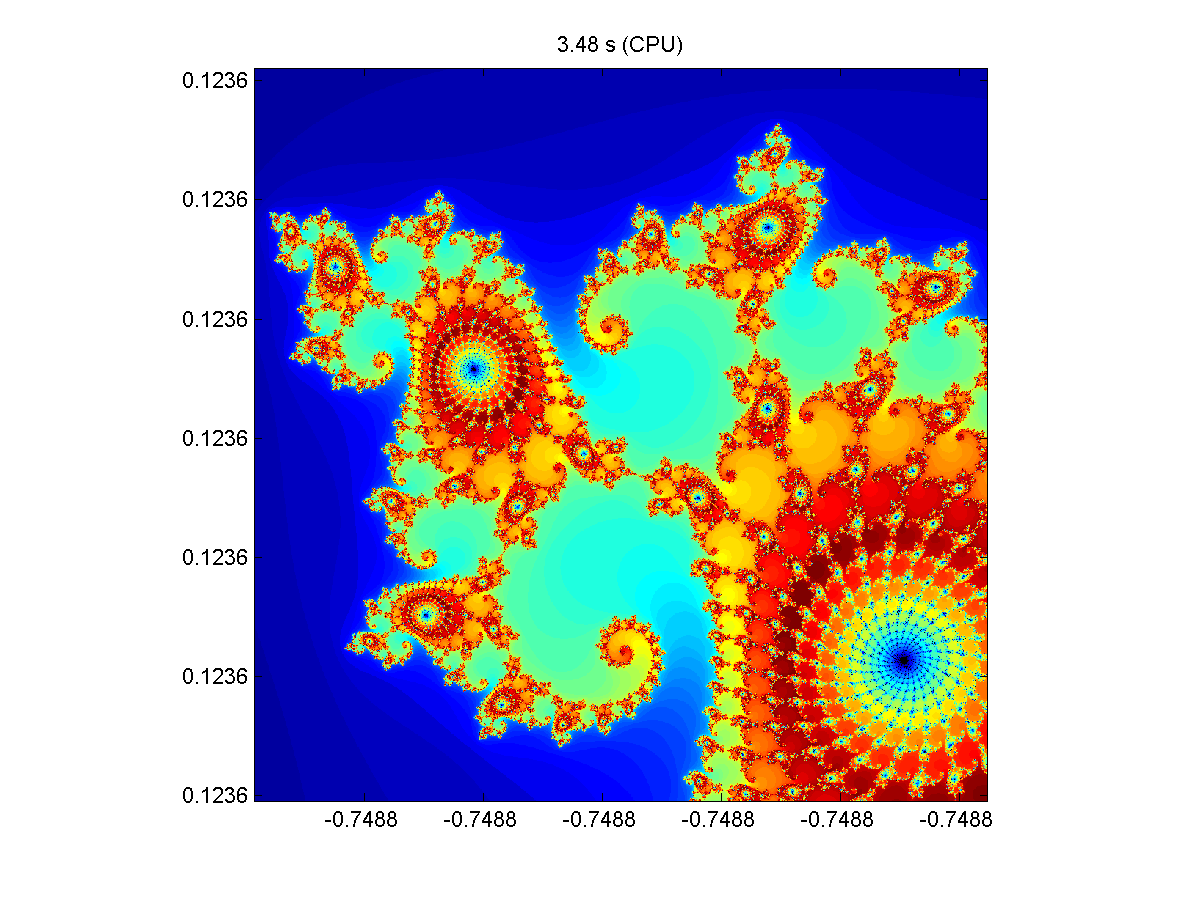
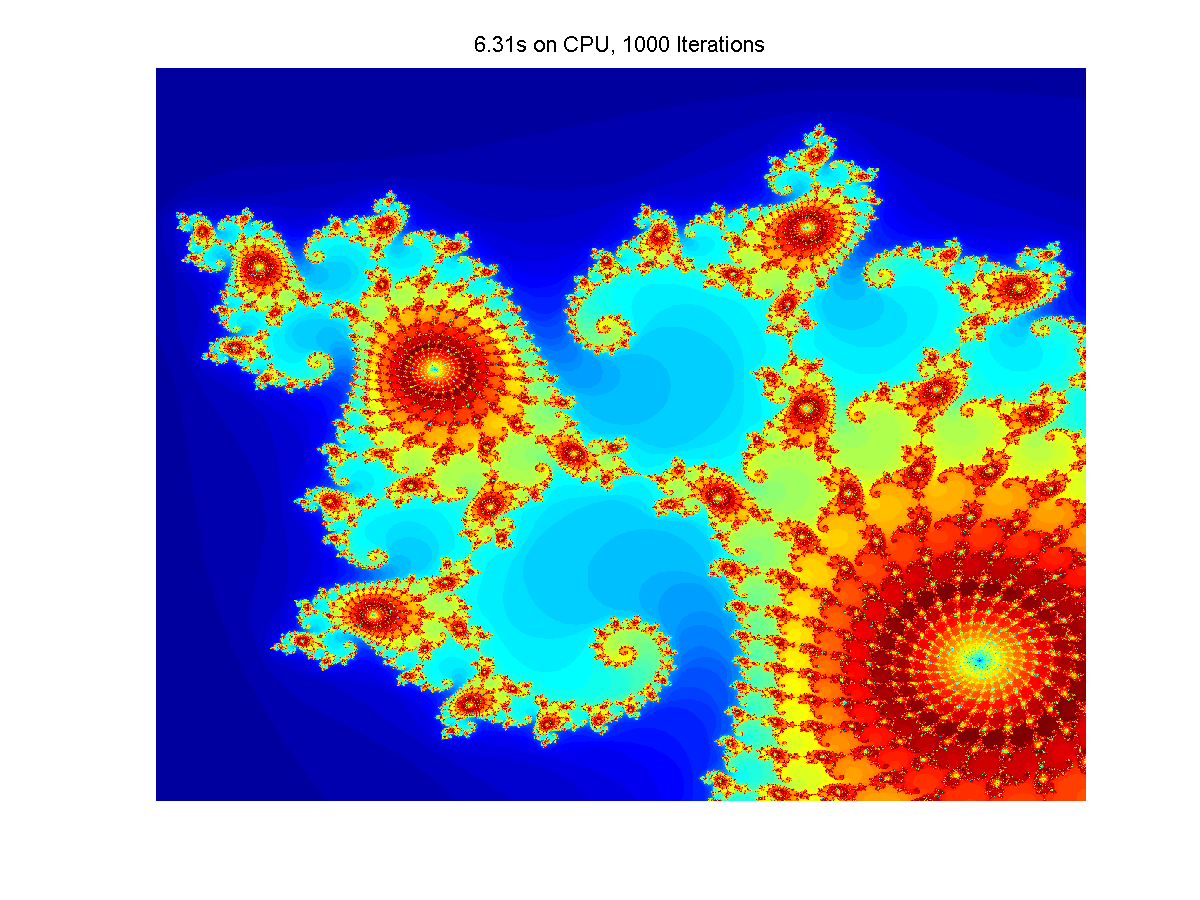
reformatted output

diff --git a/cudadiff.m b/cudadiff.m
@@ -1,9 +1,10 @@
-%Error checking between CPU and GPU
-function [diff, err] = cudaerror(maxIter, gridSize)
+%Difference between CPU and GPU
+function [diff, err] = cudadiff(maxIter, gridSize)
     %Get count
     [cpuTime, cpuCount] = cpufun(maxIter, gridSize);
     [gpuTime, gpuCount] = cudafun(maxIter, gridSize);
     err = abs(cpuCount - gpuCount);
+    count = (cpuCount + gpuCount) / 2;
     diff = abs(cpuTime - gpuTime);
     
     %Grid size
@@ -19,13 +20,12 @@ function [diff, err] = cudaerror(maxIter, gridSize)
     y = linspace(yLimit(1), yLimit(2), gridSize);
     
     %Display error
-    fig = figure(3);
+    fig = figure('position', [200, 200, 1000, 1000]);
     clf(fig, 'reset');
-    fig.Position = [200 200 600 600];
-    imagesc(x, y, err);
-    axis image
+    imagesc(x, y, count);
+    axis off
     colormap([jet(); flipud(jet()); 0 0 0]);
-    title(sprintf('Time Difference: %1.2f s\nTotal error: %1.12E', diff, sum(sum(err))));
-    saveas(figure(3), 'error.png');
+    title(sprintf('%d Iterations\nCPU Time: %1.2fs\nGPU Time: %1.2fs\nTime Difference: %1.2fs\nGPU is %1.2fx faster\nTotal error: %1.12E', maxIter, cpuTime, gpuTime, diff, cpuTime / gpuTime, sum(sum(err))));
+    saveas(gcf, 'result.png');
 end
 

diff --git a/cudafun.m b/cudafun.m
@@ -1,7 +1,6 @@
 %Generates a Mandelbrot set using CUDA
 function [gpuTime, count] = cudafun(maxIter, gridSize)
-    disp(gpuDevice()); %memory check
-
+    disp(gpuDevice());
     %x limit
     xLimit = [-0.748766713922161, -0.748766707771757];
     %y limit
@@ -30,12 +29,11 @@ function [gpuTime, count] = cudafun(maxIter, gridSize)
     count = gather(count);
     gpuTime = toc(t);
     disp(gpuTime);
-    fig = figure(2);
+    fig = figure('position', [200, 200, 1000, 1000]);
     clf(fig, 'reset');
-    fig.Position = [200 200 600 600];
     imagesc(x, y, count);
-    axis image
+    axis off
     colormap([jet(); flipud(jet()); 0 0 0]);
-    title(sprintf('%1.2f s (GPU) ', gpuTime));
-    saveas(figure(2), 'cuda.png');
+    title(sprintf('%1.2fs on GPU, %d Iterations', gpuTime, maxIter));
+    saveas(gcf, 'cuda.png');
 end

diff --git a/cpufun.m b/cpufun.m
@@ -25,12 +25,11 @@ function [cpuTime, count] = cpufun(maxIter, gridSize)
 
     %Display
     cpuTime = toc(t);
-    fig = figure(1);
+    fig = figure('position', [200, 200, 1000, 1000]);
     clf(fig, 'reset');
-    fig.Position = [200, 200, 600, 600];
     imagesc(x, y, count);
-    axis image
+    axis off
     colormap([jet(); flipud(jet()); 0 0 0]);
-    title(sprintf('%1.2f s (CPU)', cpuTime));
-    saveas(figure(1), 'cpu.png');
+    title(sprintf('%1.2fs on CPU, %d Iterations', cpuTime, maxIter));
+    saveas(gcf, 'cpu.png');
 end
